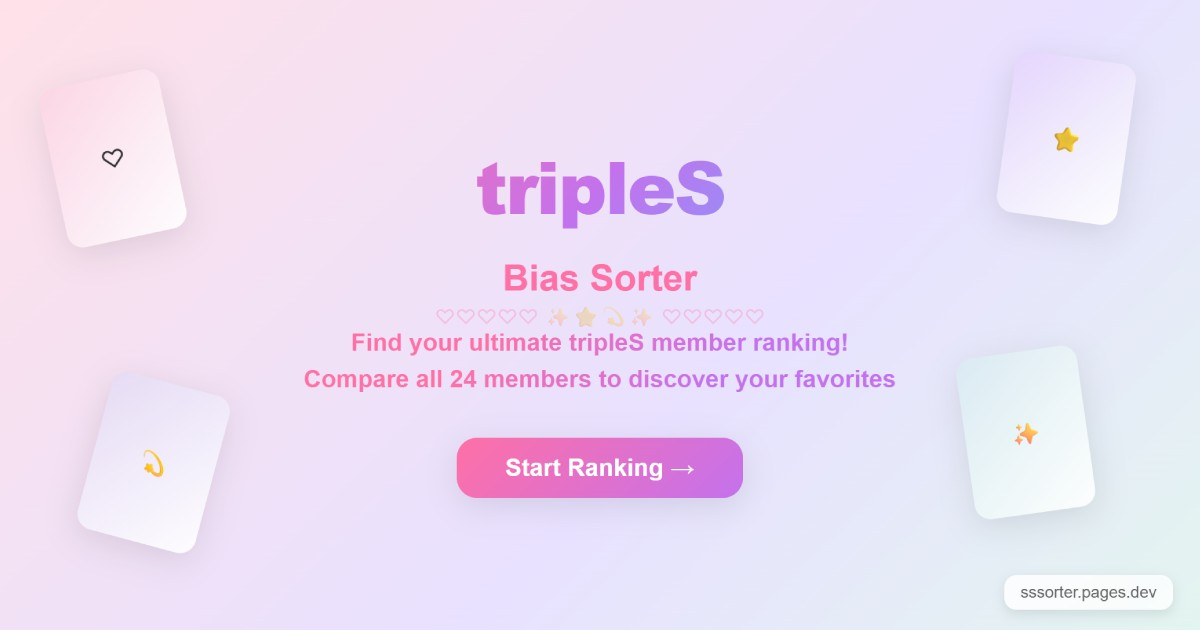
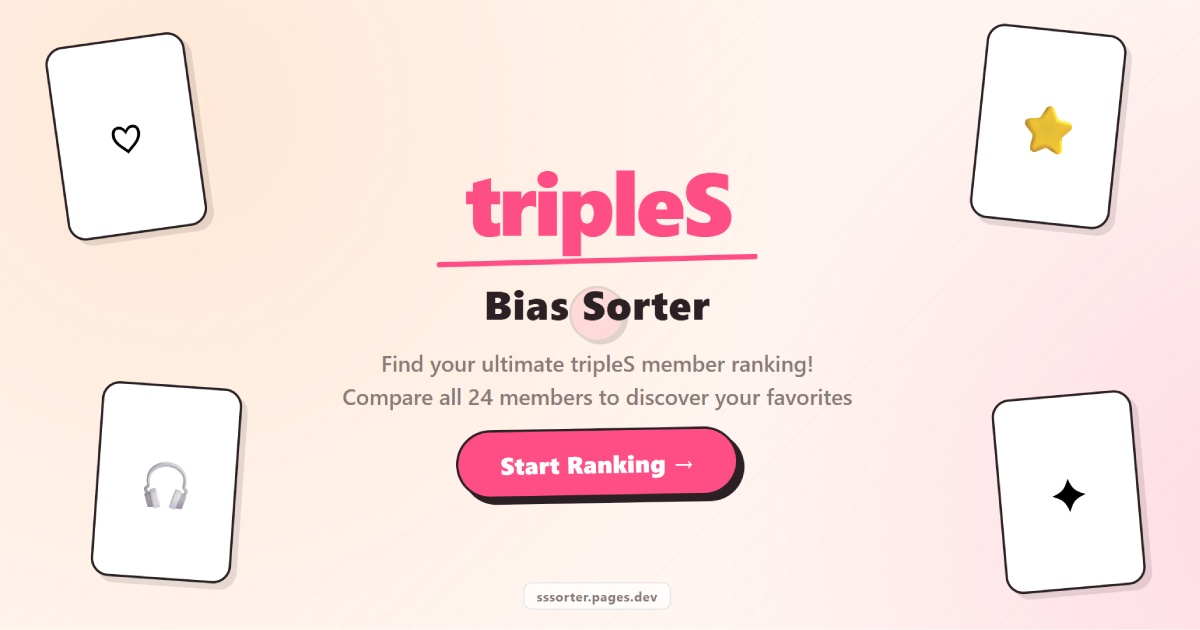
feat: update og image, fix shadow

diff --git a/assets/css/base.css b/assets/css/base.css
@@ -23,10 +23,11 @@
   --dark-text-muted: #c4b0b5;
   --dark-ink-line: #8a7765;
 
-  /* Sticker-style hard shadows */
+  /* Sticker-style hard shadows — override in body.dark-mode */
   --card-shadow: 6px 6px 0 rgba(43, 32, 36, 0.12);
   --card-shadow-hover: 10px 10px 0 var(--primary-pink);
   --card-shadow-soft: 3px 3px 0 rgba(43, 32, 36, 0.1);
+  --card-shadow-sm: 2px 2px 0 rgba(43, 32, 36, 0.1);
   --card-border: 2.5px solid var(--ink-line);
   --card-radius: 18px;
   --glow-effect: 0 0 0;
@@ -95,6 +96,11 @@ body.dark-mode {
       rgba(255, 255, 255, 0.015) 23px
     );
   background-attachment: fixed;
+
+  /* Dark mode shadows — light grayish offset visible against dark surfaces */
+  --card-shadow: 6px 6px 0 rgba(180, 170, 165, 0.25);
+  --card-shadow-soft: 3px 3px 0 rgba(180, 170, 165, 0.22);
+  --card-shadow-sm: 2px 2px 0 rgba(180, 170, 165, 0.2);
 }
 
 a {

diff --git a/assets/css/cards.css b/assets/css/cards.css
@@ -39,7 +39,7 @@ body.dark-mode .sorter-header {
   color: var(--dark-text);
   background: var(--dark-surface);
   border-color: var(--dark-ink-line);
-  box-shadow: 3px 3px 0 var(--dark-ink-line);
+  box-shadow: var(--card-shadow-soft);
 }
 
 .sorter-header strong {
@@ -163,7 +163,7 @@ body.dark-mode .member-badge {
   background: var(--dark-surface);
   color: var(--dark-text);
   border-color: var(--dark-ink-line);
-  box-shadow: 2px 2px 0 var(--dark-ink-line);
+  box-shadow: var(--card-shadow-sm);
 }
 
 .photocard-info {
@@ -261,7 +261,7 @@ body.dark-mode .member-name {
 body.dark-mode .sorter-option {
   background: var(--dark-surface);
   border-color: var(--dark-ink-line);
-  box-shadow: 6px 6px 0 rgba(0, 0, 0, 0.7);
+  box-shadow: var(--card-shadow);
 }
 
 body.dark-mode .sorter-option::before {
@@ -413,7 +413,7 @@ body.dark-mode .versus {
   color: var(--dark-text);
   background: var(--primary-pink);
   border-color: var(--dark-ink-line);
-  box-shadow: 3px 3px 0 var(--dark-ink-line);
+  box-shadow: var(--card-shadow-soft);
 }
 
 @media screen and (min-width: 768px) {

diff --git a/assets/css/auth.css b/assets/css/auth.css
@@ -112,14 +112,14 @@ body.dark-mode .pill-toggle {
   color: var(--dark-text);
   background: var(--dark-surface);
   border-color: var(--dark-ink-line);
-  box-shadow: 3px 3px 0 var(--dark-ink-line);
+  box-shadow: var(--card-shadow-soft);
 }
 
 body.dark-mode .auth-btn-signin {
   background: var(--dark-surface);
   color: var(--dark-text);
   border-color: var(--dark-ink-line);
-  box-shadow: 3px 3px 0 var(--dark-ink-line);
+  box-shadow: var(--card-shadow-soft);
 }
 
 .user-arrow {
@@ -144,7 +144,7 @@ body.dark-mode .auth-btn-signin {
 body.dark-mode .dropdown-menu {
   background: var(--dark-surface);
   border-color: var(--dark-ink-line);
-  box-shadow: 4px 4px 0 var(--dark-ink-line);
+  box-shadow: var(--card-shadow);
 }
 
 .dropdown-item {

diff --git a/assets/css/layout.css b/assets/css/layout.css
@@ -170,7 +170,7 @@ body.dark-mode .footer-link {
   color: var(--dark-text);
   background: var(--dark-surface);
   border-color: var(--dark-ink-line);
-  box-shadow: 3px 3px 0 var(--dark-ink-line);
+  box-shadow: var(--card-shadow-soft);
 }
 
 .footer-link::before {

diff --git a/assets/css/results.css b/assets/css/results.css
@@ -80,7 +80,7 @@ body.dark-mode .result-btn:not(.result-btn-primary) {
   color: var(--dark-text);
   background: var(--dark-surface);
   border-color: var(--dark-ink-line);
-  box-shadow: 3px 3px 0 var(--dark-ink-line);
+  box-shadow: var(--card-shadow-soft);
 }
 
 /* Primary CTA: solid pink, no gradient */

diff --git a/assets/css/theme.css b/assets/css/theme.css
@@ -41,7 +41,7 @@ body.dark-mode .theme-toggle-icon {
   background: var(--dark-surface);
   border-color: var(--dark-ink-line);
   color: var(--dark-text);
-  box-shadow: 2px 2px 0 var(--dark-ink-line);
+  box-shadow: var(--card-shadow-sm);
 }
 
 .theme-toggle-text {